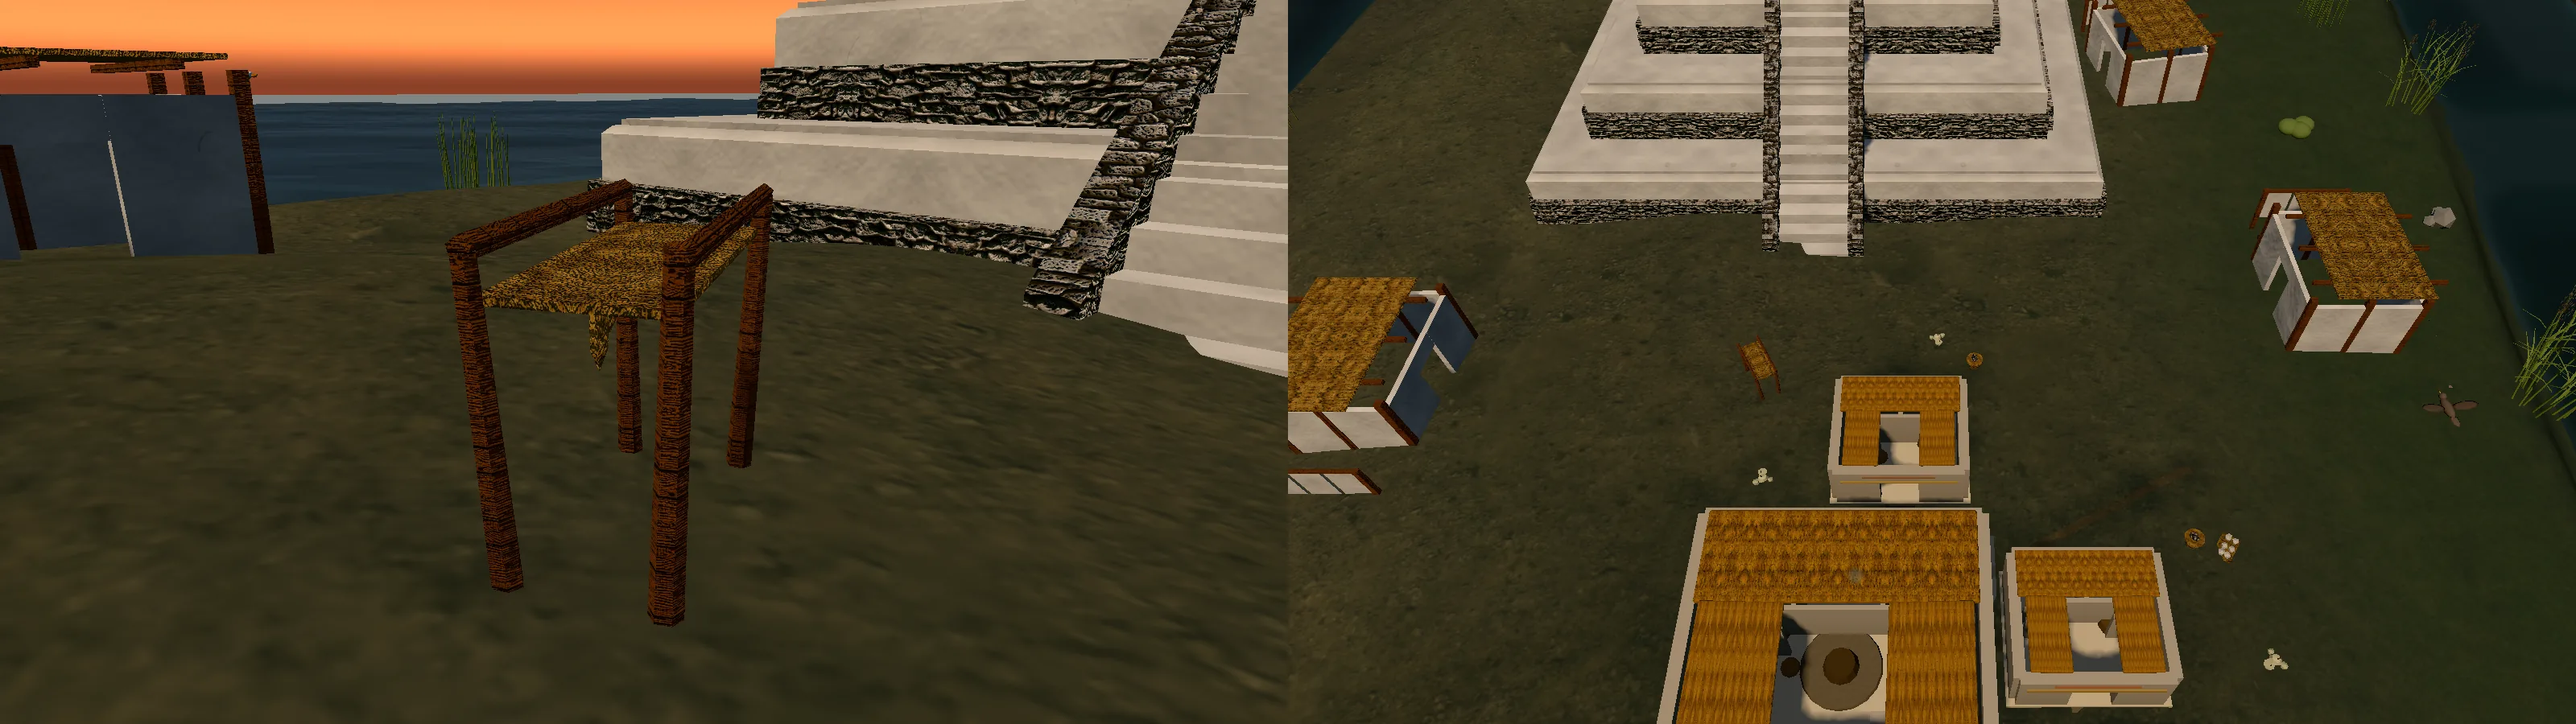
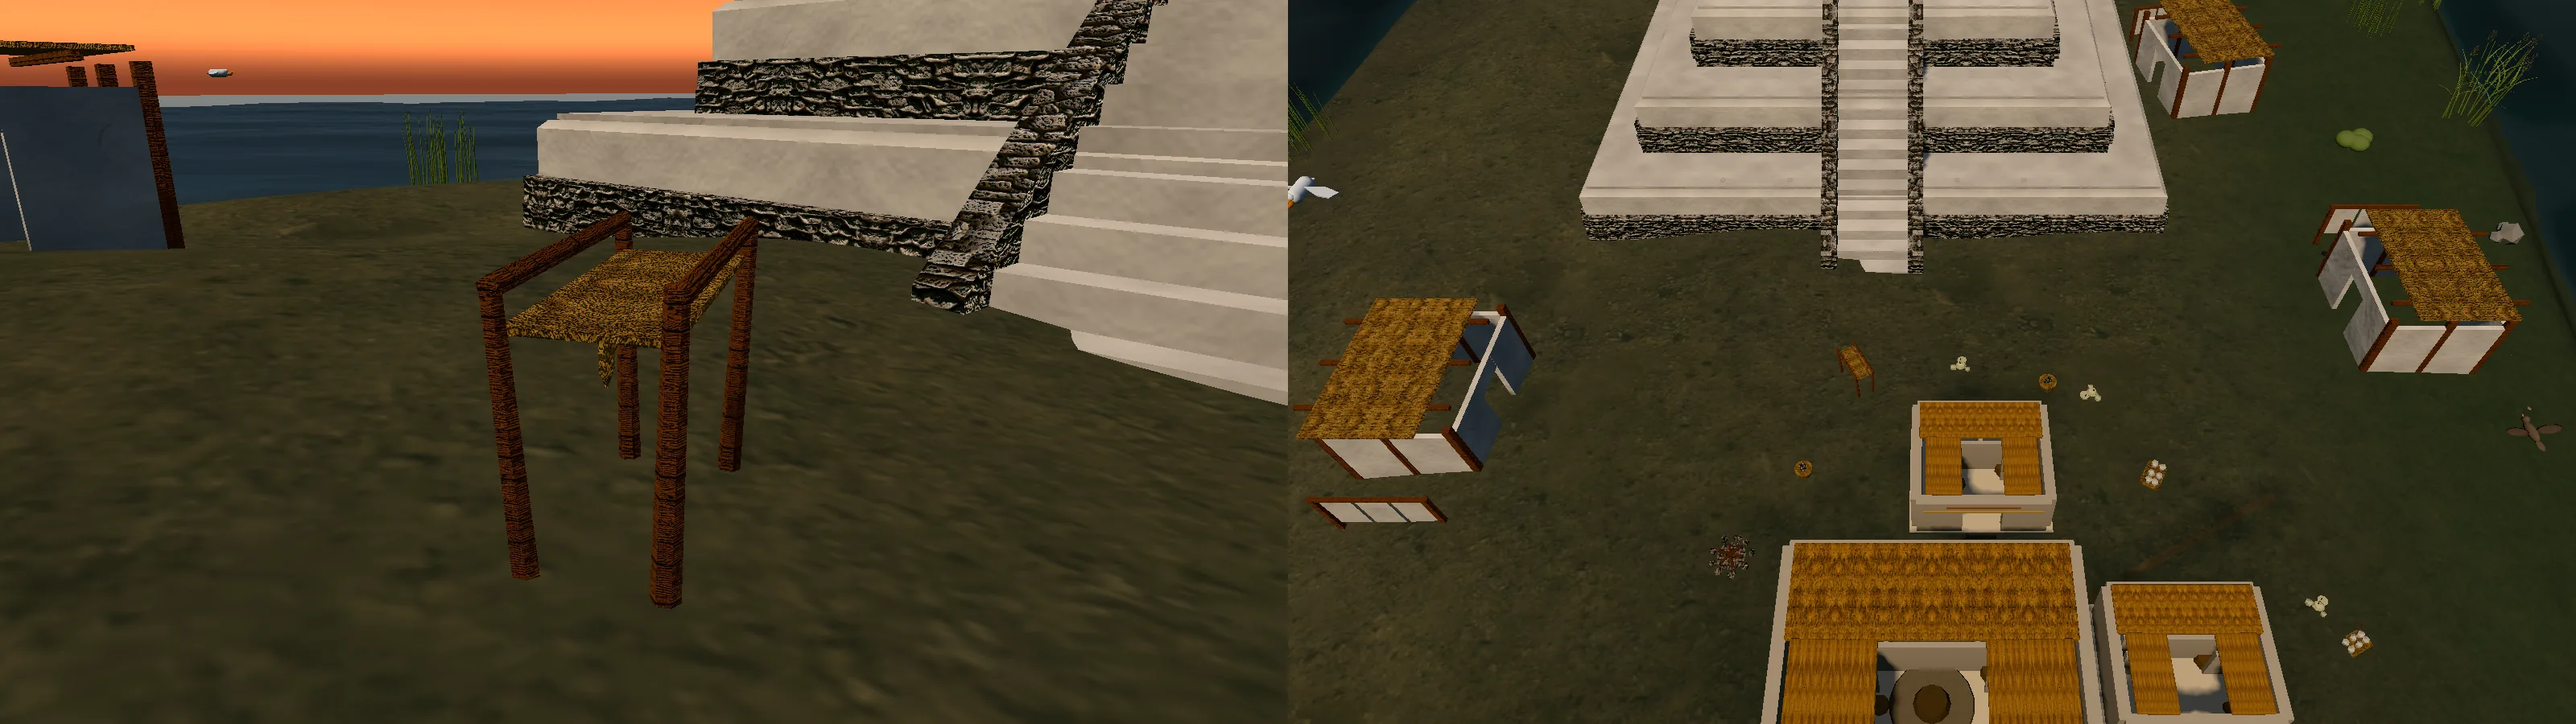
fix(caral): radio central derivado, prueba sobre planos generados y evidencia de la plaza

diff --git a/tests/settlement-dressing.test.ts b/tests/settlement-dressing.test.ts
@@ -1,11 +1,12 @@
 import { describe, expect, it } from 'vitest';
 import {
+  CENTER_CLEARANCE,
   planSettlementDressing,
   propClearance,
   propSeparation,
   type DressingQuery,
 } from '../src/model/defs/settlementDressing';
-import type { SettlementPlan } from '../src/model/defs/settlementPlan';
+import { planSettlementSite, type SettlementPlan, type SettlementQuery } from '../src/model/defs/settlementPlan';
 
 const plan: SettlementPlan = {
   center: { x: 50, z: 50 },
@@ -73,6 +74,12 @@ describe('Caral settlement dressing', () => {
     expect(planSettlementDressing(plan, 7, flat)).not.toEqual(planSettlementDressing(plan, 8, flat));
   });
 
+  it('keeps the central clearance above the real Plaza Mayor plinth', () => {
+    // `buildCaralCenter(3.4)` makes 6.46 x 5.27 walls; the plinth is 1.12x per side.
+    const halfDiagonal = Math.hypot((3.4 * 1.9 * 1.12) / 2, (3.4 * 1.55 * 1.12) / 2);
+    expect(CENTER_CLEARANCE).toBeGreaterThanOrEqual(halfDiagonal);
+  });
+
   it('never overlaps a wall or another prop across 1,000 seeds', () => {
     let violation = '';
     for (const profile of ['caral', 'chavin'] as const) {
@@ -105,6 +112,54 @@ describe('Caral settlement dressing', () => {
         if (violation) break;
       }
       if (violation) break;
+    }
+    expect(violation).toBe('');
+  });
+
+  it('keeps the rule on 1,000 generated settlement plans', () => {
+    const siteQuery: SettlementQuery = {
+      ...flat,
+      getMoisture: () => 0.6,
+      getTerrace: () => 0.2,
+      getCanal: () => 0.1,
+    };
+    let violation = '';
+    for (let siteSeed = 1; siteSeed <= 10 && !violation; siteSeed++) {
+      const generated = planSettlementSite(
+        { shape: 'riverside', seed: siteSeed, anchor: { x: 100, z: 100 }, count: 4 },
+        siteQuery,
+      );
+      const genAnchors = [
+        { ...generated.center, center: true },
+        ...generated.dwellings.map((d) => ({ ...d, center: false })),
+      ];
+      for (let seed = 1; seed <= 100 && !violation; seed++) {
+        const profile = seed % 2 ? 'caral' : 'chavin';
+        const out = planSettlementDressing(generated, seed, flat, profile);
+        if (!out.length) {
+          violation = `${profile} site ${siteSeed} seed ${seed}: no props`;
+          break;
+        }
+        for (const p of out) {
+          for (const a of genAnchors) {
+            const clearance = propClearance(p.kind, p.scale, a.center ? 'center' : 'dwelling');
+            if (Math.hypot(a.x - p.x, a.z - p.z) < clearance - 1e-6) {
+              violation = `${profile} site ${siteSeed} seed ${seed}: ${p.kind} wall`;
+              break;
+            }
+          }
+          if (violation) break;
+          for (const q of out) {
+            if (q === p) continue;
+            const separation = propSeparation(p.kind, p.scale, q.kind, q.scale);
+            if (Math.hypot(q.x - p.x, q.z - p.z) < separation - 1e-6) {
+              violation = `${profile} site ${siteSeed} seed ${seed}: ${p.kind}/${q.kind}`;
+              break;
+            }
+          }
+          if (violation) break;
+        }
+      }
     }
     expect(violation).toBe('');
   });

diff --git a/src/model/defs/settlementDressing.ts b/src/model/defs/settlementDressing.ts
@@ -79,7 +79,8 @@ const MAX_SLOPE = 0.42;
  * Dwellings read ~3.2 x 2.8 with a plinth; the Plaza Mayor reads 6.46 x 5.27, and its plinth reaches
  * ~4.7 from the centre. Central props are kept outside that footprint (the courtyard stays empty).
  */
-export const BUILDING_CLEARANCE = 2.45;
+export const DWELLING_CLEARANCE = 2.45;
+/** `buildCaralCenter(3.4)`: 6.46 x 5.27 walls, the plinth adds 12 % per side -> half-diagonal 4.67. */
 export const CENTER_CLEARANCE = 4.8;
 const MIN_PROP_SCALE = 0.85;
 const MAX_PROP_SCALE = 1.15;
@@ -95,9 +96,9 @@ export const PROP_RADIUS: Record<DressingKind, number> = {
   cotton: 0.5,
   bench: 0.6,
   windbreak: 0.7,
-  stela: 0.5,
+  stela: 0.55,
   offering: 0.7,
-  stone_head: 0.45,
+  stone_head: 0.5,
   megalith: 0.75,
 };
 
@@ -107,7 +108,7 @@ export function propClearance(
   scale = MAX_PROP_SCALE,
   anchor: 'dwelling' | 'center' = 'dwelling',
 ): number {
-  return (anchor === 'center' ? CENTER_CLEARANCE : BUILDING_CLEARANCE) + PROP_RADIUS[kind] * scale;
+  return (anchor === 'center' ? CENTER_CLEARANCE : DWELLING_CLEARANCE) + PROP_RADIUS[kind] * scale;
 }
 
 /** Centre-to-centre distance below which two props overlap (radii plus a small air gap). */
@@ -148,8 +149,10 @@ export function planSettlementDressing(
     for (let attempt = 0; attempt < 60; attempt++) {
       const anchor = rng.pick(pool);
       const a = rng.range(0, Math.PI * 2);
-      // Central props are outside the plaza's plinth; the centre-to-anchor distance starts there.
-      const radius = anchor.center ? rng.range(6.0, 7.6) : rng.range(3.5, 5.1);
+      // Central props are outside the plaza's plinth; the band starts at the clearance for the
+      // largest scale the planner draws, plus a head of room, and never sits on the dwelling ring.
+      const centerMin = CENTER_CLEARANCE + PROP_RADIUS[kind] * MAX_PROP_SCALE + PROP_MARGIN;
+      const radius = anchor.center ? rng.range(centerMin, centerMin + 1.6) : rng.range(3.5, 5.1);
       const x = anchor.x + Math.cos(a) * radius;
       const z = anchor.z + Math.sin(a) * radius;
       const scale = rng.range(MIN_PROP_SCALE, MAX_PROP_SCALE);

diff --git a/docs/design/settlement-generator.md b/docs/design/settlement-generator.md
@@ -91,10 +91,12 @@ All angles/offsets come from a dedicated `RNG(seed * k + c)` stream.
   spondylus/obsidian offerings and megaliths. Both are visual-only and carry no obstacles or
   entities; Caral draws its set from the Blender prop kit (one merged mesh per material and LOD,
   procedural fallback), Chavín still uses one procedural mesh. Placement keeps each prop clear
-  of the rendered walls (2.45 m around a dwelling, 4.8 m around the Plaza Mayor's plinth, plus the
-  prop's own radius at the drawn scale) and two props at least the sum of their radii plus 0.1 m
-  apart. Central hearths and stelae stay outside the plaza's courtyard, which is left empty; a
-  1,000-seed test locks the invariant for both cultures.
+  of the rendered walls (2.45 m around a dwelling, 4.8 m around the settlement centre's plinth — the
+  Caral Plaza Mayor; Chavín's centre is smaller, so the same value is conservative — plus the prop's
+  own radius at the drawn scale) and two props at least the sum of their radii plus 0.1 m apart.
+  Central hearths and stelae stay outside the courtyard, so no dressing prop sits inside it (the
+  Plaza Mayor keeps its own built dais); a 1,000-seed test locks the invariant for both cultures and
+  another 1,000 cases run over generated plans.
 
 ## Determinism & performance
 

diff --git a/docs/design/visual-language.md b/docs/design/visual-language.md
@@ -351,8 +351,10 @@ didactic pauses, and the simulation/plan is untouched. Two layers changed:
   household props: stone hearths, fish drying racks, baskets/shicras, gourds, cotton bundles,
   benches and reed windbreaks. They ship as Blender kit pieces (`scripts/blender/build_caral_props_kit.py`)
   and are baked per base into one mesh per shared material and LOD. The planner keeps them outside the
-  rendered walls and outside the Plaza Mayor's plinth (the courtyard stays empty), and separates them by
-  the sum of their radii; see `propClearance`/`propSeparation` in `settlementDressing.ts`. The landmark spawn now requires a
+  rendered walls and outside the settlement centre's plinth (the Caral Plaza Mayor; Chavín's centre is
+  smaller, so the value is conservative), leaves no dressing prop inside the courtyard (the Mayor keeps
+  its own built dais), and separates them by the sum of their radii plus 0.1 m; see
+  `propClearance`/`propSeparation` in `settlementDressing.ts`. The landmark spawn now requires a
   broad, gentle footprint so the complex no longer clips through cliffs (`Game.spawnLandmark`).
 - **Shared builders (affect every region).** The Andean thatch gable was fixed (it used to render
   as a crossed X) and given a deeper eave and a ridge bundle; adobe walls gained a stone base
